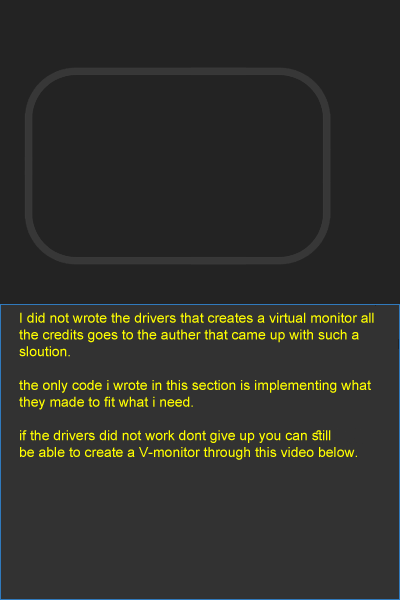
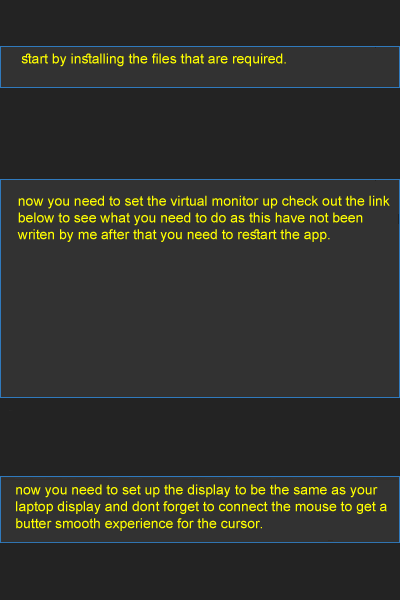
Add files via upload

diff --git a/InputConnect/setupmonitor.py b/InputConnect/setupmonitor.py
@@ -10,7 +10,7 @@ import webbrowser
 
 global state
 state = False
-
+restart_required = False
 
 def quiter():
     global state
@@ -18,24 +18,37 @@ def quiter():
     window.destroy()
 
 
-def add_mon():
-    threading.Thread(target=Vmonitor.add,args=(1,)).start()
+def download():
+    global restart_required
+    webbrowser.open('https://www.amyuni.com/downloads/usbmmidd_v2.zip')
+    restart_required = True
 
 def remove_mon():
+    global restart_required
     threading.Thread(target=Vmonitor.add,args=(-1,)).start()
+    restart.place(x=5,y=275)
+    restart_required = True
 
 def setting_open():
-    subprocess.Popen('control desk.cpl')
-
+    global restart_required
+    subprocess.Popen("control desk.cpl")
+    restart_required = True
+    restart.place(x=5,y=400)
 def link_hover(event):
     link.config(fg="dark blue")
+
 def link_out(event):
     link.config(fg="light blue")
+
 def open_link(event):
     webbrowser.open('https://www.youtube.com/watch?v=ybHKFZjSkVY')
+    restart.place(x=5,y=400)
+
+
+
 
 def main():
-    global window, state,link
+    global window, state, link, restart
     state = True
     window = tk.Toplevel()
     window.resizable(width=False, height=False)
@@ -43,23 +56,23 @@ def main():
     window.iconbitmap("images/icone.ico")
     window.geometry("400x600")
     window.configure(bg='#232323')
-
     background = ImageTk.PhotoImage(Image.open("images/VMo.png").resize((int(400),int(600))))
     image_background = tk.Label(window, image=background, highlightthickness=0, bd=0)
     image_background.place(x=0,y=0)
     link = tk.Label(window,text="https://www.youtube.com/watch?v=ybHKFZjSkVY",bg="#323232",fg="light blue")
+    restart = tk.Label(window,text="""Restart you app to detect the changes if you did not do anything then
+    ignore this message!""",bg="dark red",fg="black")
     link.bind("<ButtonRelease-1>", open_link)
     link.bind("<Enter>", link_hover)
     link.bind("<Leave>", link_out)
-
-
     titel = tk.Label(window,text="VIRTUAL MONITOR",font=30)
-    add_mon_button = tk.Button(window,text="ADD DISPLAY",width=24,height=0,bg="gray",command=add_mon)
-    remove_mon_button = tk.Button(window,text="REMOVE DISPLAY",width=24,height=0,bg="gray",command=remove_mon)
+    download_button = tk.Button(window,text="Download Files",width=24,height=0,bg="gray",command=download)
     setting = tk.Button(window,text="Setting",width=18,height=0,bg="gray",command=setting_open)
-    link.place(x=10,y=550)
+    
     titel.place(x=120,y=0)
-    add_mon_button.place(x=50,y=100)
-    remove_mon_button.place(x=90,y=150)
-    setting.place(x=160,y=200)
+    link.place(x=10,y=300)
+    download_button.place(x=50,y=120)
+    setting.place(x=70,y=560)
+    
+    
     window.mainloop()

diff --git a/InputConnect/test.py b/InputConnect/test.py
@@ -1,3 +1,4 @@
-import subprocess
+import os
 
-subprocess.Popen('control desk.cpl')
+documents_path = os.path.expanduser("~/Documents")
+print(documents_path)
